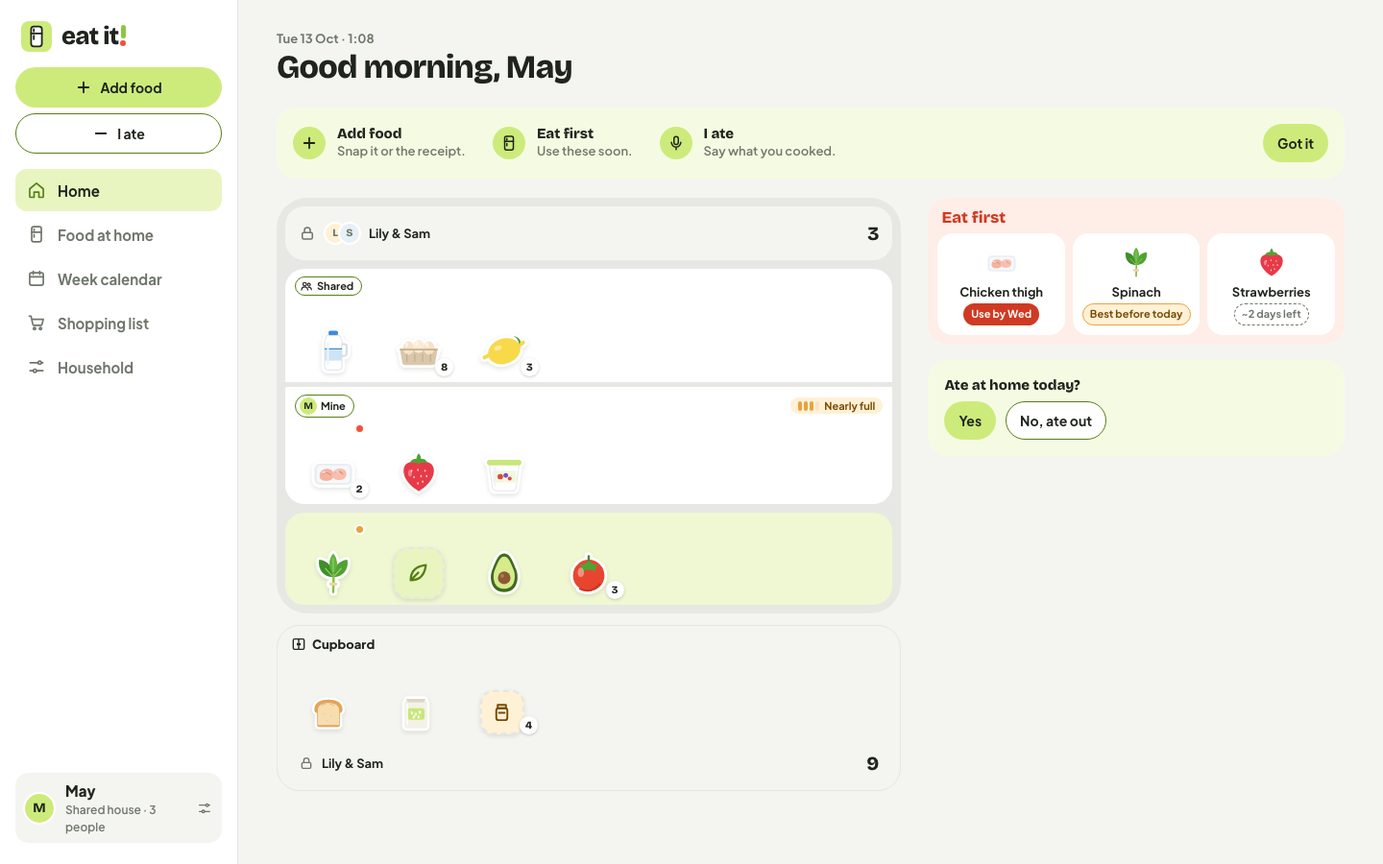
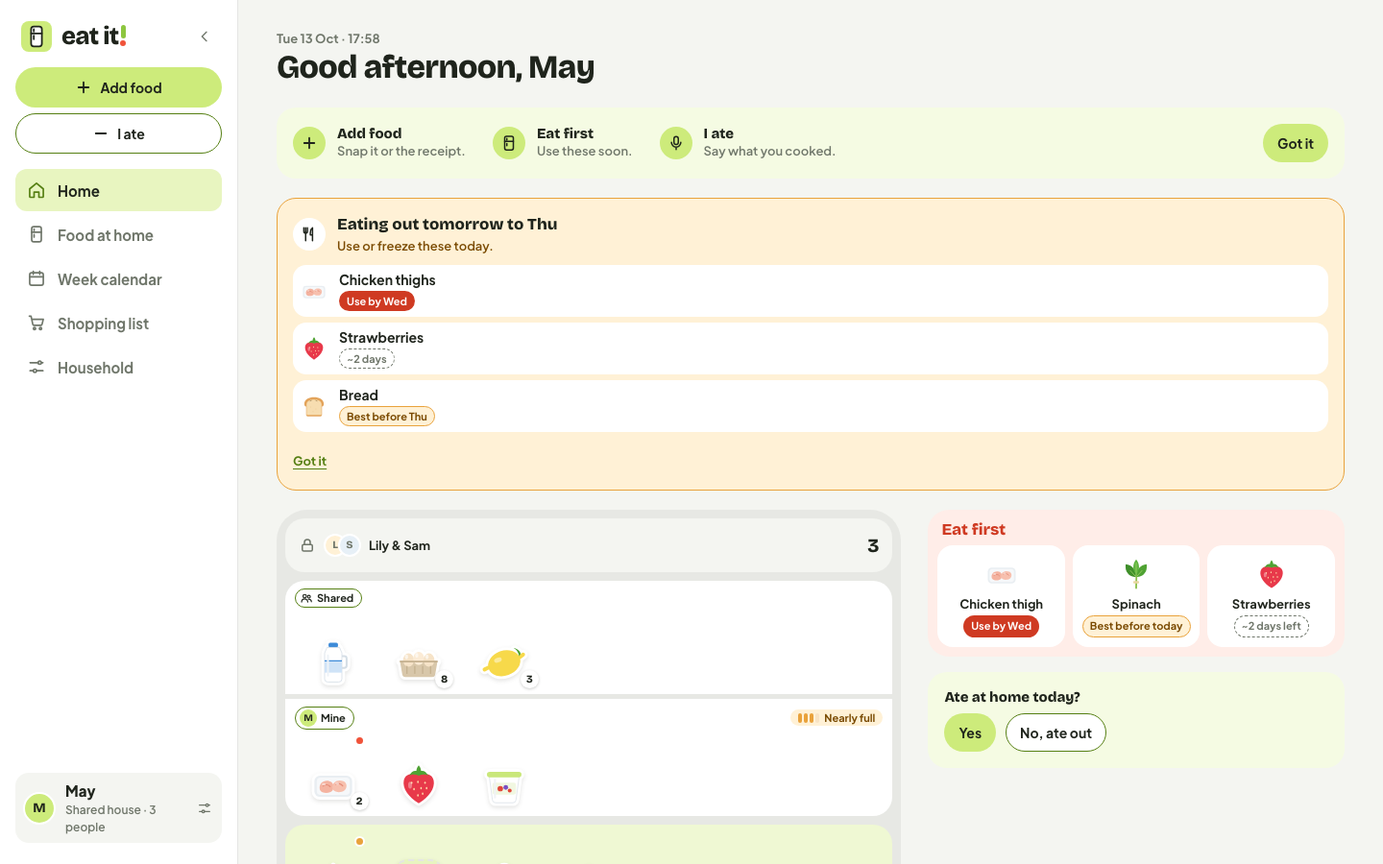
Plan meals around days out: remind before you're away
Teammates found the meal check of little use. Now marking days as "eating
out" (one or several in a row) drives a reminder: the food that would go off
while you're away, on the last day at home before.
- state.awayRuns: runs of days out ahead + the food whose date falls inside.
- Home: a big card from two days before ("Eating out tomorrow to Sun · Use or
  freeze these today"), with Freeze for meat, leftovers and bread when there
  is a freezer; "Got it" hides it.
- Week calendar: the same reminder on the last day at home.
- Lock screen: that day's notification is this reminder.
- Marking a day out says what it means ("2 things to use by Fri").
- Demo data: May and John both have days out coming up.
28 tests (tests/away.test.js); screenshots regenerated; README section.

Code written with Claude Code (AI-assisted) and reviewed by Jiakuo.

diff --git a/app/js/views/week.js b/app/js/views/week.js
@@ -5,11 +5,11 @@
 // "Eating at home?", so a day out can be planned ahead.
 
 import { foodName, shortName } from '../foods.js';
-import { modeOf, nudge, bagNumber, frozenLots, placeOf, mealAnswer, mealSkipped } from '../state.js';
+import { modeOf, nudge, bagNumber, frozenLots, placeOf, mealAnswer, mealSkipped, awayRuns } from '../state.js';
 import { addDays, daysBetween, weekday, dayMonth, fmtDay, longDay, dateTag, lastGood, frozenWeeks } from '../dates.js';
 import { ICON } from '../icons.js';
 import { esc, pic, pageHead, secHead } from '../ui.js';
-import { phoneTitle, mealLog, mealCheck } from './parts.js';
+import { phoneTitle, mealLog, mealCheck, awayTitle } from './parts.js';
 
 const monday = (day) => addDays(day, -((new Date(`${day}T00:00:00Z`).getUTCDay() + 6) % 7));
 
@@ -24,6 +24,7 @@ export function weekDays(app, offset = 0) {
   const s = app.store.state, today = app.store.today;
   const start = addDays(monday(today), offset * 7);
   const oldest = frozenLots(s);
+  const runs = awayRuns(s, today, 28);
   return Array.from({ length: 7 }, (_, i) => {
     const d = addDays(start, i);
     const past = d < today, isToday = d === today;
@@ -35,6 +36,7 @@ export function weekDays(app, offset = 0) {
     return {
       date: d, past, isToday,
       out: modeOf(s, d) === 'out',
+      away: d >= today ? runs.find((r) => r.prep === d) || null : null,
       due: past ? [] : dueOn(s, d),
       overdue: isToday ? [...s.lots.values()].filter((l) => l.owner !== 'housemate' && lastGood(l.date) && lastGood(l.date) < today) : [],
       // Once a bag was taken out today, today's card doesn't nag about the freezer again.
@@ -52,6 +54,7 @@ function foodBlocks(app, d) {
   const s = app.store.state;
   const blocks = [];
   const item = (l) => { const t = dateTag(l.date, today); return `<li><button class="wk-food" data-act="lot" data-arg="${esc(l.id)}">${pic(l.food, { size: 26, lot: l })}<span class="wf-text"><b>${esc(foodName(l.food, 2, l))}</b><small class="d-${t.kind}">${esc(KIND_WORD[l.date.kind] || '')}</small></span></button></li>`; };
+  if (d.away) blocks.push(`<div class="block away-b"><span class="k">${esc(awayTitle(d.away, today))}</span><small class="away-sub">Use or freeze these ${d.isToday ? 'today' : 'this day'}</small><ul>${d.away.lots.map(item).join('')}</ul></div>`);
   if (d.overdue.length) blocks.push(`<div class="block warn"><span class="k">Past the date</span><ul>${d.overdue.map(item).join('')}</ul></div>`);
   if (d.due.length) blocks.push(`<div class="block"><span class="k">Dates this day</span><ul>${d.due.map(item).join('')}</ul></div>`);
   if (d.thaw) blocks.push(`<div class="block frost"><span class="k">Freezer</span><div class="wk-line">${pic(d.thaw.food, { bag: true, size: 26, lot: d.thaw })}<span class="wf-text"><b>${esc(shortName(d.thaw.food, d.thaw))}, bag ${bagNumber(s, d.thaw)}</b><small>Frozen ${frozenWeeks(d.thaw.date.on, today)} weeks</small></span></div><button class="chip-btn on" data-act="thaw" data-arg="${esc(d.thaw.id)}">Thaw tonight</button></div>`);

diff --git a/app/js/views/home.js b/app/js/views/home.js
@@ -1,12 +1,13 @@
 // Home, kept short: Eat first, the open fridge (boards 01/02) and "Ate at home today?".
 // Everything else has its own page now (Food at home, Week calendar, Shopping list, Household).
 
-import { foodName } from '../foods.js';
-import { fmtDay, greeting, dateTag } from '../dates.js';
+import { foodName, canFreeze } from '../foods.js';
+import { fmtDay, greeting, dateTag, daysBetween } from '../dates.js';
+import { awayRuns, hasFreezer } from '../state.js';
 import { ICON, appIcon } from '../icons.js';
-import { esc, pic, pageHead, label } from '../ui.js';
+import { esc, pic, pageHead, label, tag } from '../ui.js';
 import { prefs } from '../store.js';
-import { homePicture, eatFirstHtml, todayHtml, shelfGroups } from './parts.js';
+import { homePicture, eatFirstHtml, todayHtml, shelfGroups, awayTitle, awayWhen } from './parts.js';
 
 export function phoneHeader(app, title) {
   const { store, ui } = app;
@@ -50,6 +51,20 @@ function guide(app) {
   </section>`;
 }
 
+// Days out coming up (marked in the week calendar): from two days before, a big reminder of the food
+// that would go off while you're away: use it, or freeze it if it freezes and there is a freezer.
+function awayCard(app) {
+  const s = app.store.state, today = app.store.today, id = app.store.persona.id;
+  const r = awayRuns(s, today).find((x) => x.prep >= today && daysBetween(today, x.prep) <= 2 && !prefs.get(`away:${id}:${x.from}`, false));
+  if (!r) return '';
+  const freezer = hasFreezer(s);
+  return `<section class="card away" aria-label="Before you're out">
+    <div class="away-h"><span class="g-ic">${ICON.fork({ size: 18 })}</span><div><b>${esc(awayTitle(r, today))}</b><small>Use or freeze these ${esc(awayWhen(r, today))}.</small></div></div>
+    <ul class="away-list">${r.lots.map((l) => `<li><button class="away-food" data-act="lot" data-arg="${esc(l.id)}">${pic(l.food, { size: 32, lot: l })}<span><b>${esc(foodName(l.food, 2, l))}</b>${tag(l.date, today)}</span></button>${freezer && canFreeze(l.food) ? `<button class="chip-btn" data-act="freeze" data-arg="${esc(l.id)}">${ICON.snow({ size: 14 })}Freeze</button>` : ''}</li>`).join('')}</ul>
+    <button class="link" data-act="away-ok" data-arg="${r.from}">Got it</button>
+  </section>`;
+}
+
 export function homePage(app) {
   const { store, ui } = app;
   const s = store.state, p = store.persona, today = store.today, clock = store.clock;
@@ -61,6 +76,7 @@ export function homePage(app) {
     ${phoneHeader(app, title)}
     <div class="desk-only">${pageHead(`${esc(fmtDay(today))} · ${esc(clock)}`, `${esc(greeting(clock))}, ${esc(s.profile.name || p.name)}`)}</div>
     ${guide(app)}
+    ${awayCard(app)}
     ${empty}
     <div class="home-grid">
       <div class="h-eat">${eatFirstHtml(app)}</div>

diff --git a/app/js/views/phone.js b/app/js/views/phone.js
@@ -2,11 +2,11 @@
 // an iPhone, so these are live previews drawn from the same fridge; taps here change the fridge.
 
 import { food, foodName, shortName } from '../foods.js';
-import { eatFirst, oldestFrozen, frozenLots, bagNumber, nudge, modeOf } from '../state.js';
+import { eatFirst, oldestFrozen, frozenLots, bagNumber, nudge, modeOf, awayRuns } from '../state.js';
 import { urgency, frozenWeeks, frozenFor, longDay, dot } from '../dates.js';
 import { ICON, appIcon } from '../icons.js';
 import { esc, pic, label } from '../ui.js';
-import { shelfGroups } from './parts.js';
+import { shelfGroups, awayTitle } from './parts.js';
 
 function freshGroups(app) {
   const s = app.store.state, today = app.store.today;
@@ -87,7 +87,16 @@ function lockInner(app) {
   const clock = app.store.clock;
   const ring = `<svg viewBox="0 0 44 44" width="48" height="48" aria-hidden="true"><circle cx="22" cy="22" r="18" fill="none" stroke="var(--white)" stroke-width="4.5" opacity=".7"/><circle cx="22" cy="22" r="18" fill="none" stroke="var(--tomato)" stroke-width="4.5" stroke-linecap="round" stroke-dasharray="${Math.min(1, n / 3) * 113} 113" transform="rotate(-90 22 22)"/></svg>`;
   let notif = '';
-  if (due && !app.ui.lockDismissed) {
+  const away = awayRuns(s, today).find((r) => r.prep === today);
+  if (away && !app.ui.lockDismissed) {
+    const list = away.lots.map((l) => foodName(l.food, 2, l).toLowerCase());
+    const body = names ? `Use or freeze today: ${list.slice(0, -1).join(', ')}${list.length > 1 ? ' and ' : ''}${list[list.length - 1]}.` : `${list.length} thing${list.length > 1 ? 's' : ''} to use or freeze today.`;
+    notif = `<section class="notif" aria-label="Notification from Eat It!">
+      <div class="nf-h">${appIcon({ size: 18, badge: false })}<span>Eat It!</span><small>now</small></div>
+      <div class="nf-b">${names ? `<span class="nf-pics">${away.lots.slice(0, 3).map((l) => pic(l.food, { size: 30, lot: l })).join('')}</span>` : ''}<div><b>${esc(awayTitle(away, today))}</b><small>${esc(body)}</small></div></div>
+      <div class="btn-row"><button class="btn btn-primary sm" data-act="go" data-arg="home">Open</button><button class="btn btn-secondary sm" data-act="lock-dismiss">Later</button></div>
+    </section>`;
+  } else if (due && !app.ui.lockDismissed) {
     const title = names ? `${shortName(due.food, due)}, bag ${bagNumber(s, due)}` : 'The oldest bag in your freezer';
     notif = `<section class="notif" aria-label="Notification from Eat It!">
       <div class="nf-h">${appIcon({ size: 18, badge: false })}<span>Eat It!</span><small>now</small></div>

diff --git a/app/js/main.js b/app/js/main.js
@@ -7,7 +7,7 @@ import { addDays, daysBetween, weekday } from './dates.js';
 import { CONFIG } from './config.js';
 import { openStore, localAdapter, httpAdapter, prefs } from './store.js';
 import { matchFood, customId, food, foodName, guessDays, defaultQty, shortName } from './foods.js';
-import { placeOf, firstOfKind, modeOf } from './state.js';
+import { placeOf, firstOfKind, modeOf, awayRuns } from './state.js';
 import { ICON, appIcon, wordmark } from './icons.js';
 import { esc } from './ui.js';
 import { homePage } from './views/home.js';
@@ -425,7 +425,12 @@ const ACT = {
     const [day, ans] = split(arg);
     const mode = ans === 'home' ? 'cook' : ans === 'out' ? 'out' : 'none';
     const e = await dispatch({ type: 'plan', day, mode: ans === 'skip' ? 'cook' : mode, skip: ans === 'skip' });
-    if (ans === 'out') toast(day > app.store.today ? `Eating out on ${weekday(day)}.` : day === app.store.today ? 'Eating out today.' : 'Ate out: nothing to record.', e.id);
+    if (ans === 'out' && day > app.store.today) {
+      // Planning ahead: say what that means for the food at home.
+      const run = awayRuns(app.store.state, app.store.today, 28).find((r) => r.from <= day && day <= r.to);
+      const n = run ? run.lots.length : 0;
+      toast(n ? `Eating out ${weekday(day)}. ${n} thing${n > 1 ? 's' : ''} to use by ${run.prep === app.store.today ? 'today' : weekday(run.prep)}.` : `Eating out ${weekday(day)}.`, e.id);
+    } else if (ans === 'out') toast(day === app.store.today ? 'Eating out today.' : 'Ate out: nothing to record.', e.id);
   },
   // The "Out tonight" widget (board 05).
   async out() {
@@ -603,6 +608,7 @@ const ACT = {
     try { for (const k of Object.keys(localStorage)) if (k.startsWith('eatit:')) localStorage.removeItem(k); } catch { /* storage blocked */ }
     location.reload();
   },
+  'away-ok'(from) { prefs.set(`away:${app.store.persona.id}:${from}`, true); render(); },
   'guide-done'() { prefs.set(`guide:${app.store.persona.id}`, true); render(); },
   'ate-close'() { go(ateBack()); },
   'ate-back'() {

diff --git a/app/styles.css b/app/styles.css
@@ -228,6 +228,20 @@ input[type=checkbox] { width: 20px; height: 20px; accent-color: var(--leaf-deep)
 .home-grid { display: flex; flex-direction: column; }
 .h-today { padding: 0 16px; margin-top: 4px; }
 .h-empty { margin: 0 16px 14px; }
+.away { display: flex; flex-direction: column; gap: 10px; margin-bottom: 14px; background: var(--amber-soft); border-color: var(--amber); }
+.away-h { display: flex; align-items: center; gap: 12px; }
+.away-h b { display: block; font: 800 17px var(--font-title); }
+.away-h small { font-size: 13px; color: var(--amber-text); }
+.away .g-ic { background: var(--white); }
+.away-list { list-style: none; margin: 0; padding: 0; display: flex; flex-direction: column; gap: 6px; }
+.away-list li { display: flex; align-items: center; justify-content: space-between; gap: 10px; padding: 6px 10px 6px 6px; border-radius: 14px; background: var(--white); }
+.away-food { display: flex; align-items: center; gap: 10px; flex: 1; min-width: 0; padding: 0; border: 0; background: none; color: var(--ink); text-align: left; cursor: pointer; }
+.away-food > span { display: flex; flex-direction: column; align-items: flex-start; gap: 3px; min-width: 0; }
+.away-food b { font: 700 14px var(--font-body); }
+.away .link { align-self: flex-start; }
+.block.away-b { width: 100%; padding: 10px; border-radius: 14px; background: var(--amber-soft); }
+.block.away-b .k { color: var(--amber-text); }
+.away-sub { font-size: 12px; color: var(--amber-text); margin-top: -4px; }
 .guide { display: flex; flex-direction: column; gap: 12px; margin-bottom: 14px; background: var(--wash); border-color: transparent; }
 .guide ul { list-style: none; margin: 0; padding: 0; display: flex; flex-direction: column; gap: 10px; }
 .guide li { display: flex; align-items: center; gap: 12px; }

diff --git a/app/js/state.js b/app/js/state.js
@@ -31,7 +31,7 @@
 //   undo     { target }
 
 import { FOODS, food as foodOf } from './foods.js';
-import { addDays, urgency, kindOrder, daysBetween } from './dates.js';
+import { addDays, urgency, kindOrder, daysBetween, lastGood } from './dates.js';
 
 const THAWED_DAYS = 1; // our guess, shown dashed like every estimate
 const clone = (x) => JSON.parse(JSON.stringify(x ?? null));
@@ -65,6 +65,24 @@ export const placeOf = (s, id) => s.places.find((p) => p.id === id) || null;
 export const firstOfKind = (s, kind) => s.places.find((p) => p.kind === kind) || null;
 export const hasFreezer = (s) => !!firstOfKind(s, 'frozen');
 const isFrozenPlace = (s, id) => placeOf(s, id)?.kind === 'frozen';
+
+// Days marked "eating out" ahead, grouped into runs (Sat–Sun), each with the food that would go off
+// while you're away. prep = the last day at home before, when to use or freeze it.
+export function awayRuns(s, today, horizon = 14) {
+  const days = Object.keys(s.plan).filter((d) => s.plan[d].mode === 'out' && d > today && daysBetween(today, d) <= horizon).sort();
+  const runs = [];
+  for (const d of days) {
+    const last = runs[runs.length - 1];
+    if (last && addDays(last.to, 1) === d) last.to = d; else runs.push({ from: d, to: d });
+  }
+  return runs.map((r) => ({
+    ...r,
+    prep: addDays(r.from, -1),
+    lots: [...s.lots.values()]
+      .filter((l) => l.owner !== 'housemate' && !isFrozenPlace(s, l.place) && lastGood(l.date) >= r.from && lastGood(l.date) <= r.to)
+      .sort((a, b) => lastGood(a.date).localeCompare(lastGood(b.date))),
+  })).filter((r) => r.lots.length);
+}
 
 // What happened on each day, for the week calendar ("Ate", "Added", …).
 function note(s, day, entry) {

diff --git a/app/tests/away.test.js b/app/tests/away.test.js
@@ -1,0 +1,27 @@
+// Days out ahead: what would go off while you're away, and when to deal with it.
+import test from 'node:test';
+import assert from 'node:assert/strict';
+import { replay, awayRuns } from '../js/state.js';
+import { canFreeze } from '../js/foods.js';
+import { BUILTIN } from '../js/seed.js';
+
+const TODAY = '2026-10-10';
+const run = (who, ...events) => awayRuns(replay([...BUILTIN[who].seed, ...events], BUILTIN[who]), TODAY);
+const foods = (r) => r.lots.map((l) => l.food);
+
+test('days out in a row become one run, with the food that goes off meanwhile', () => {
+  const [may] = run('may');
+  assert.deepEqual([may.from, may.to, may.prep], ['2026-10-11', '2026-10-12', '2026-10-10']);
+  assert.deepEqual(foods(may), ['chicken', 'strawberry', 'bread']);
+  const [john] = run('john');
+  assert.deepEqual([john.from, john.to], ['2026-10-11', '2026-10-13']);
+  assert.deepEqual(foods(john), ['milk', 'curry', 'avocado']);
+  assert.ok(canFreeze('curry') && canFreeze('chicken') && !canFreeze('milk'));
+});
+
+test('a day out with nothing going off needs no reminder; taking a day back ends the run there', () => {
+  const quiet = run('may', { id: 'q', type: 'plan', day: '2026-10-20', mode: 'out' });
+  assert.equal(quiet.length, 1);           // only the seeded run; 20 Oct has nothing due
+  const shorter = run('john', { id: 'b', type: 'plan', day: '2026-10-13', mode: 'none' });
+  assert.deepEqual(foods(shorter[0]), ['milk', 'curry']);
+});

diff --git a/app/js/views/parts.js b/app/js/views/parts.js
@@ -1,7 +1,7 @@
 // Pieces several pages share: the open fridge, food tiles, Eat first, Today, Room at home.
 import { food, foodName, shortName } from '../foods.js';
 import { eatFirst, oldestFrozen, units, nudge, hasFreezer, mealAnswer, mealSkipped } from '../state.js';
-import { frozenWeeks, urgency, longDay } from '../dates.js';
+import { frozenWeeks, urgency, longDay, weekday, addDays } from '../dates.js';
 import { shelvesOf } from '../seed.js';
 import { ICON, placeIcon, appIcon } from '../icons.js';
 import { esc, pic, tag, dotHtml, label } from '../ui.js';
@@ -130,6 +130,13 @@ export function eatFirstHtml(app, { limit = 3 } = {}) {
     </div>
   </section>`;
 }
+
+// "Eating out tomorrow to Mon" / "Eating out Sat": a run of days out (state.awayRuns).
+export function awayTitle(r, today) {
+  const w = (d) => (d === addDays(today, 1) ? 'tomorrow' : weekday(d));
+  return r.from === r.to ? `Eating out ${w(r.from)}` : `Eating out ${w(r.from)} to ${weekday(r.to)}`;
+}
+export const awayWhen = (r, today) => (r.prep === today ? 'today' : `by ${weekday(r.prep)}`);
 
 // Today on Home: just "Ate at home today?" (and the freezer nudge when a bag is old enough).
 export function todayHtml(app) {

diff --git a/app/js/seed.js b/app/js/seed.js
@@ -58,6 +58,8 @@ export const BUILTIN = {
         { food: 'tomato', qty: 4, unit: 'pc', place: 'fridge', spot: 'crisper', date: est('2026-10-17') },
         { food: 'broccoli', qty: 1, unit: 'pc', place: 'fridge', spot: 'crisper', date: est('2026-10-15') },
       ]),
+      // Away from tomorrow for three days: the milk, the curry and the avocados would go off meanwhile.
+      mode('2026-10-11', 'out'), mode('2026-10-12', 'out'), mode('2026-10-13', 'out'),
     ],
     // What the simulated "AI scan" of the bench returns: the 7 lines on canvas board 03.
     photo: { when: DAY, lines: [
@@ -125,7 +127,8 @@ export const BUILTIN = {
         { food: 'mushrooms', qty: 200, unit: 'g', place: 'fridge', spot: 'crisper', date: est('2026-10-13') },
         { food: 'bread', qty: 1, unit: 'pc', place: 'pantry', date: bb('2026-10-12'), amount: 'Half' },
       ]),
-      mode('2026-10-13', 'out'),
+      // Eating out tomorrow and the day after: the chicken, strawberries and bread would go off meanwhile.
+      mode('2026-10-11', 'out'), mode('2026-10-12', 'out'),
     ],
     photo: { when: DAY, lines: [
       { food: 'apple', qty: 4, unit: 'pc', date: estDays(14) },

diff --git a/app/tests/logic.test.js b/app/tests/logic.test.js
@@ -68,7 +68,7 @@ test("May's demo home matches board 02, no freezer", () => {
   const s = may();
   assert.deepEqual(eatFirst(s, TODAY).map((x) => x.food), ['chicken', 'spinach', 'strawberry']);
   assert.equal(nudge(s, TODAY), null);
-  assert.equal(modeOf(s, '2026-10-13'), 'out');
+  assert.equal(modeOf(s, '2026-10-11'), 'out');
 });
 
 test('eating takes the oldest bag first', () => {
@@ -89,7 +89,7 @@ test('eating out marks the day and holds the freezer nudge', () => {
   const s = john(ev('plan', { day: TODAY, mode: 'out' }));
   assert.equal(modeOf(s, TODAY), 'out');
   assert.equal(nudge(s, TODAY), null);
-  assert.equal(modeOf(may(), '2026-10-13'), 'out');
+  assert.equal(modeOf(may(), '2026-10-12'), 'out');
 });
 
 test('fixing stock by hand: set a count, or all gone', () => {

diff --git a/app/js/foods.js b/app/js/foods.js
@@ -73,6 +73,9 @@ export function foodName(id, n = 2, lot) {
 
 export const shortName = (id, lot) => lot?.name || food(id).short || food(id).name;
 
+// Food that freezes well enough to save it from going off: meat, leftovers, bread.
+export const canFreeze = (id) => { const f = food(id); return f.cat === 'meat' || !!f.leftover || id === 'bread'; };
+
 // Phrases that contain a catalogue word but are something else: "chicken stock" is not chicken
 // thighs, "lamb mince" is not beef mince. They match as "no food" (null), so nothing gets taken.
 export const NOT_FOOD = ['chicken stock', 'beef stock', 'vegetable stock', 'stock cube', 'stock cubes', 'chicken mince', 'lamb mince', 'turkey mince', 'veal mince',

diff --git a/app/README.md b/app/README.md
@@ -56,6 +56,21 @@ AI 把这句话对上家里有的东西。说了具体数量的（"two tomatoes"
 
 以后的日子可以提前定：比如确定周四一天都不在家吃，点开周四，问 **Eating at home on Thursday?**，选 **No, eating out**。卡片上会标 Eating out；那天到期的食物，卡片里会提醒前一天吃掉。想改主意就点 Change。
 
+### 出去吃之前的提醒
+
+在周历里标了哪几天出去吃（可以连着几天，比如周六周日），App 会看冰箱里**哪些东西会在你不在家那几天到期**，在你出门前最后一天在家时提醒你：
+
+- **首页**：出门前两天内出现一张大提醒卡，比如 "Eating out tomorrow to Sun · Use or freeze these today"，列出那几样东西。能冻的（肉、剩菜、面包）在有冷冻室时直接给 **Freeze** 按钮。点 **Got it** 收起。
+- **周历**：出门前那天的卡片上写着同样的提醒。
+- **锁屏通知**：出门前那天推送，比如 "Eating out tomorrow to Fri · Use or freeze today: milk, curry and avocados."
+- 在周历里标 "No, eating out" 时，提示条会直接说 "Eating out Sat. 2 things to use by Fri."
+
+May 和 John 的示例数据里都已经标好了接下来几天出去吃，一打开就能看到。
+
+| 手机：首页提醒（May，没有冷冻室） | 手机：首页提醒（John，可以冻） | 手机：锁屏通知 |
+|---|---|---|
+| <img src="screenshots/phone-15-away-may.png" width="220" alt="首页：Eating out tomorrow"> | <img src="screenshots/phone-16-away-john.png" width="220" alt="首页：Freeze 按钮"> | <img src="screenshots/phone-13-lock-screen.png" width="220" alt="锁屏：出去吃之前的提醒"> |
+
 | 手机：点开今天 | 手机：选了 Yes 之后 | 手机：提前标周四不在家吃 |
 |---|---|---|
 | <img src="screenshots/phone-08-week-open.png" width="220" alt="周历：Ate at home today?"> | <img src="screenshots/phone-09-week-record.png" width="220" alt="周历：Record what you used?"> | <img src="screenshots/phone-10-week-eat-out.png" width="220" alt="周历：Eating out on Thursday"> |
@@ -91,7 +106,7 @@ AI 把这句话对上家里有的东西。说了具体数量的（"two tomatoes"
 | Food at home | `#food` | 按地方分页，图 / 列表（电脑上是表格），搜索，Mine / Shared，编辑地方，拍照估有多满 |
 | Add food | `#add` `#ways` `#scan` `#review` | 六种添加方式和核对 |
 | I ate | `#ate` | 语音出库 |
-| Week calendar | `#week` | 一周七张日卡（照个人系统"本周"页的样子）：这天要吃掉的（Eat by）、冷冻满 4 周的那袋、今天要不要解冻；点开今天或以前的日子记吃饭，点开以后的日子提前标出哪天不在家吃；底下是 Coming up |
+| Week calendar | `#week` | 一周七张日卡（照个人系统"本周"页的样子）：这天要吃掉的（Eat by）、冷冻满 4 周的那袋、今天要不要解冻；点开今天或以前的日子记吃饭，点开以后的日子提前标出哪天不在家吃（出门前一天会提醒哪些东西要先用掉或冻起来）；底下是 Coming up |
 | Shopping list | `#shop` | 和室友共享的清单、谁去买、买之前的提醒（家里已有、室友在买、放不下）、家里还有多少空间 |
 | Household | `#settings` | 家庭成员和邀请码、同住的人能看到什么、地方、提醒、邮件 / 超市账户、个人资料、数据 |
 | 桌面小组件、锁屏 | `#widgets` `#lock` | 画布 05/06 的预览，点了会真的改冰箱 |
@@ -178,10 +193,11 @@ POST {ai}  { "text": "说的那句话", "stock": [{ "food": "curry", "name": "Cu
 cd app && node --test
 ```
 
-Node 18 以上，无依赖（`npm test` 也行）。26 个测试，覆盖日期标签、Eat first、语音解析、追问和回答、AI 服务器和退回本地、分袋、出去吃和提醒、手动改库存、周历、撤销、解冻 / 冷冻 / 扔掉、地方和设置、新用户设置、起始数据对齐到第一天、HTTP 存储；`tests/review.test.js` 专门防 10-13 审查发现的问题（"egg noodles" 不能动鸡蛋、"Plenty left" 不能变多、同一样东西只问一次、AI 返回克数要改成追问、移出冷冻室要解冻、坏的服务器数据不能卡住启动）。
+Node 18 以上，无依赖（`npm test` 也行）。28 个测试，覆盖日期标签、Eat first、语音解析、追问和回答、AI 服务器和退回本地、分袋、出去吃和提醒、手动改库存、周历、撤销、解冻 / 冷冻 / 扔掉、地方和设置、新用户设置、起始数据对齐到第一天、HTTP 存储；`tests/review.test.js` 专门防 10-13 审查发现的问题（"egg noodles" 不能动鸡蛋、"Plenty left" 不能变多、同一样东西只问一次、AI 返回克数要改成追问、移出冷冻室要解冻、坏的服务器数据不能卡住启动）。
 
 ## 10-13 改了什么
 
+- 出去吃之前的提醒：组员觉得 meals 用处不大。现在标了哪几天出去吃，App 会在出门前一天提醒哪些东西会在你不在家时过期（首页大提醒、周历、锁屏通知），能冻的直接给 Freeze。
 - 仓库公开并改名为 `eat-it`（原名 info90006-shelflife），在线演示改由这个仓库自动发布，不再用单独的演示仓库。公开前删掉了旧原型里的参与者引语。
 - 组员试用反馈：
   - 语音用一次之后就不好使：现在全程只用一个识别器，等上一次结束再开始，浏览器不回结束信号也不会卡住。
